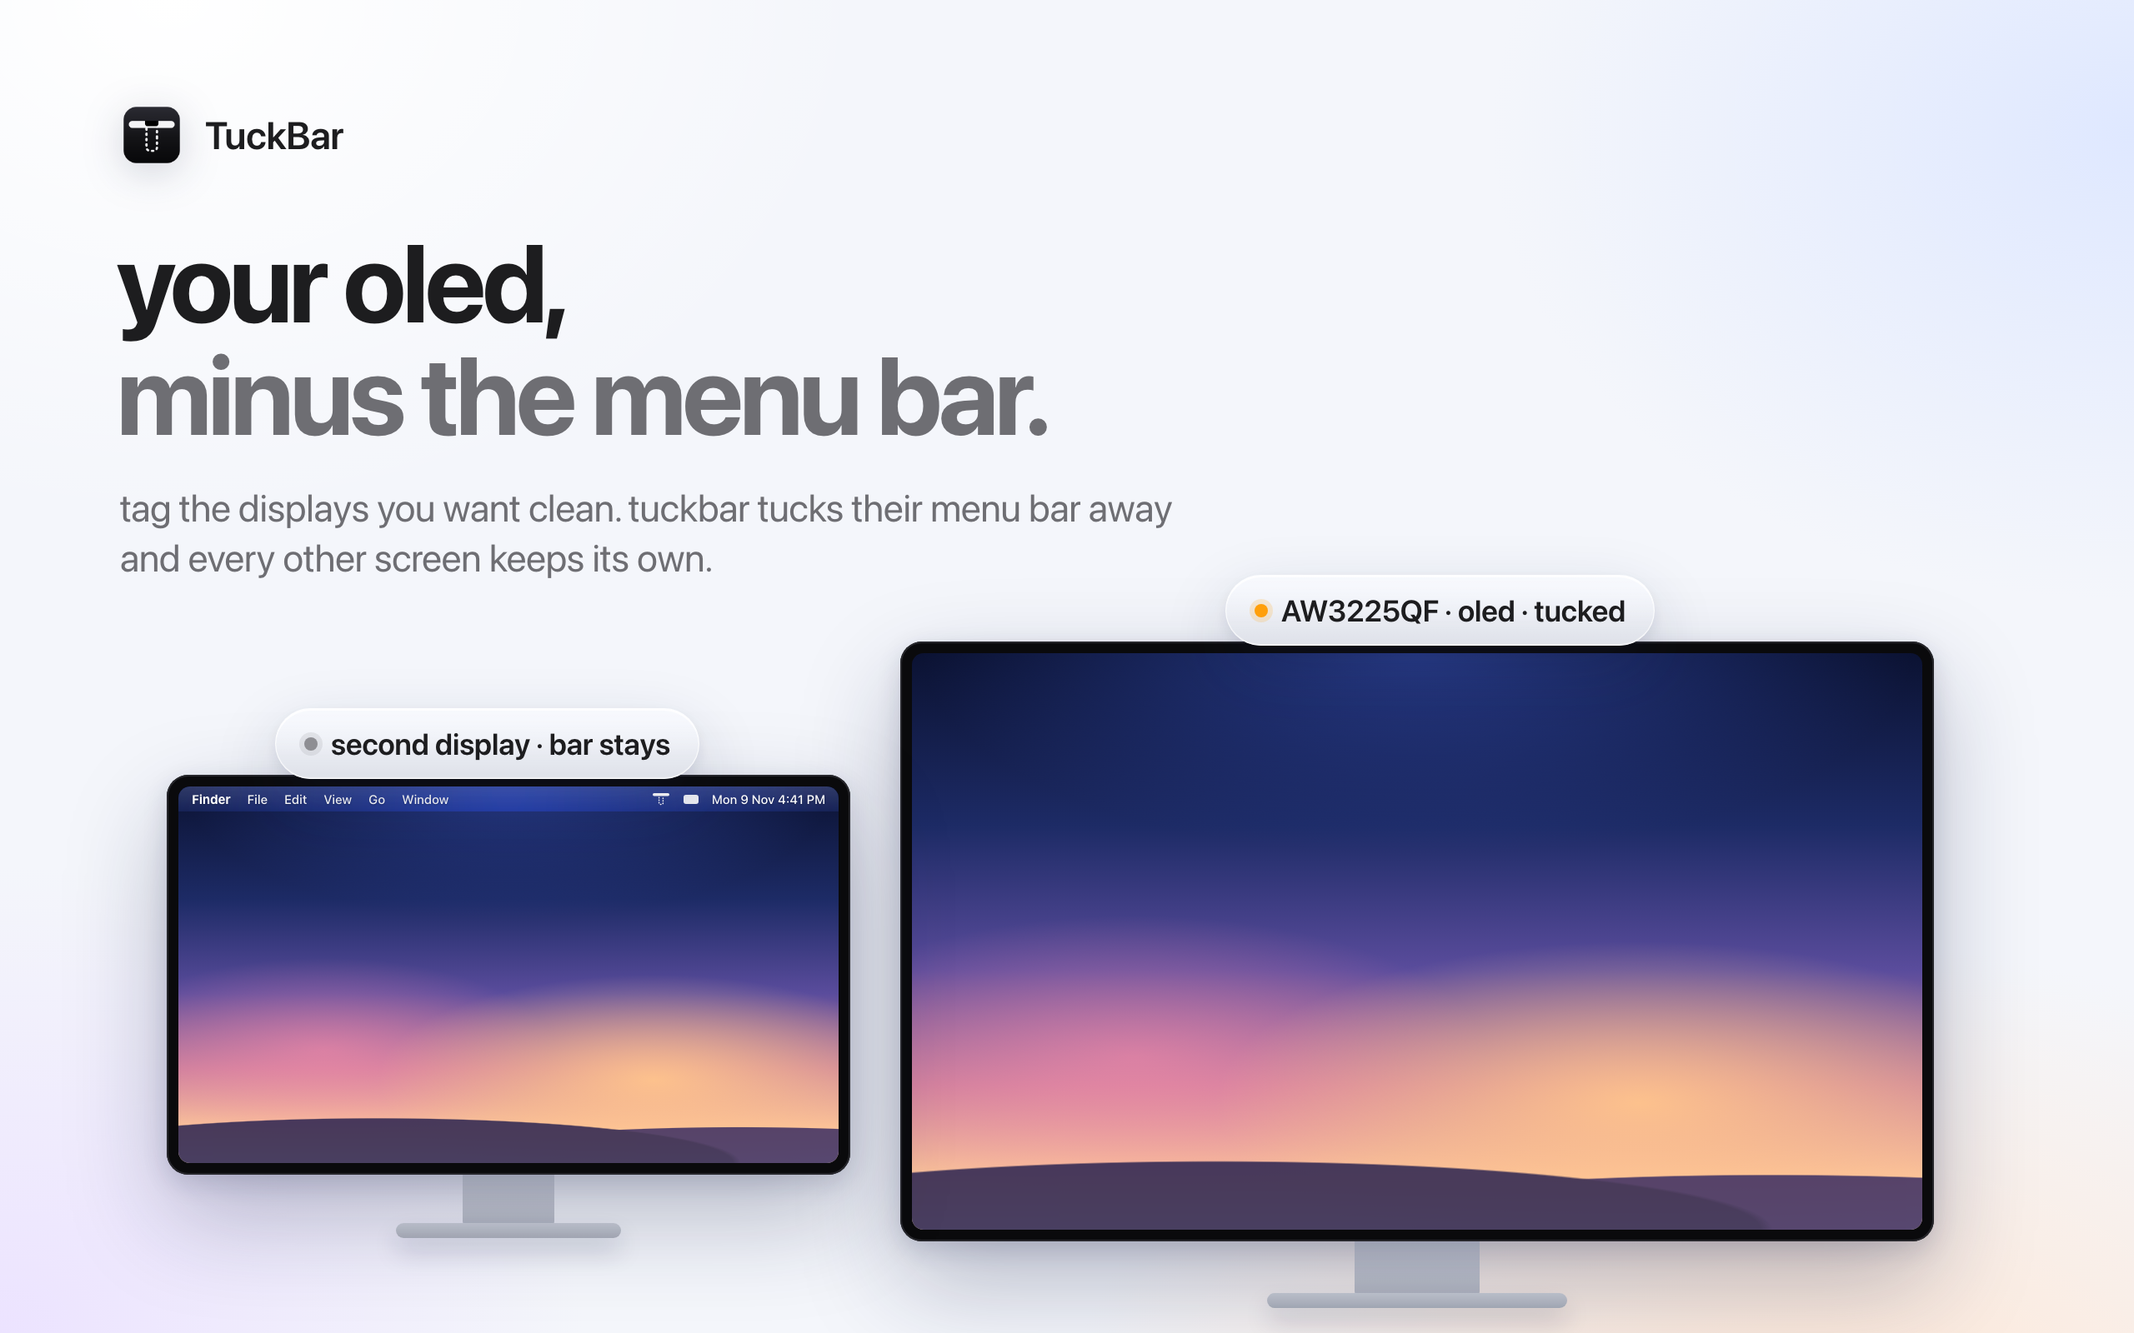
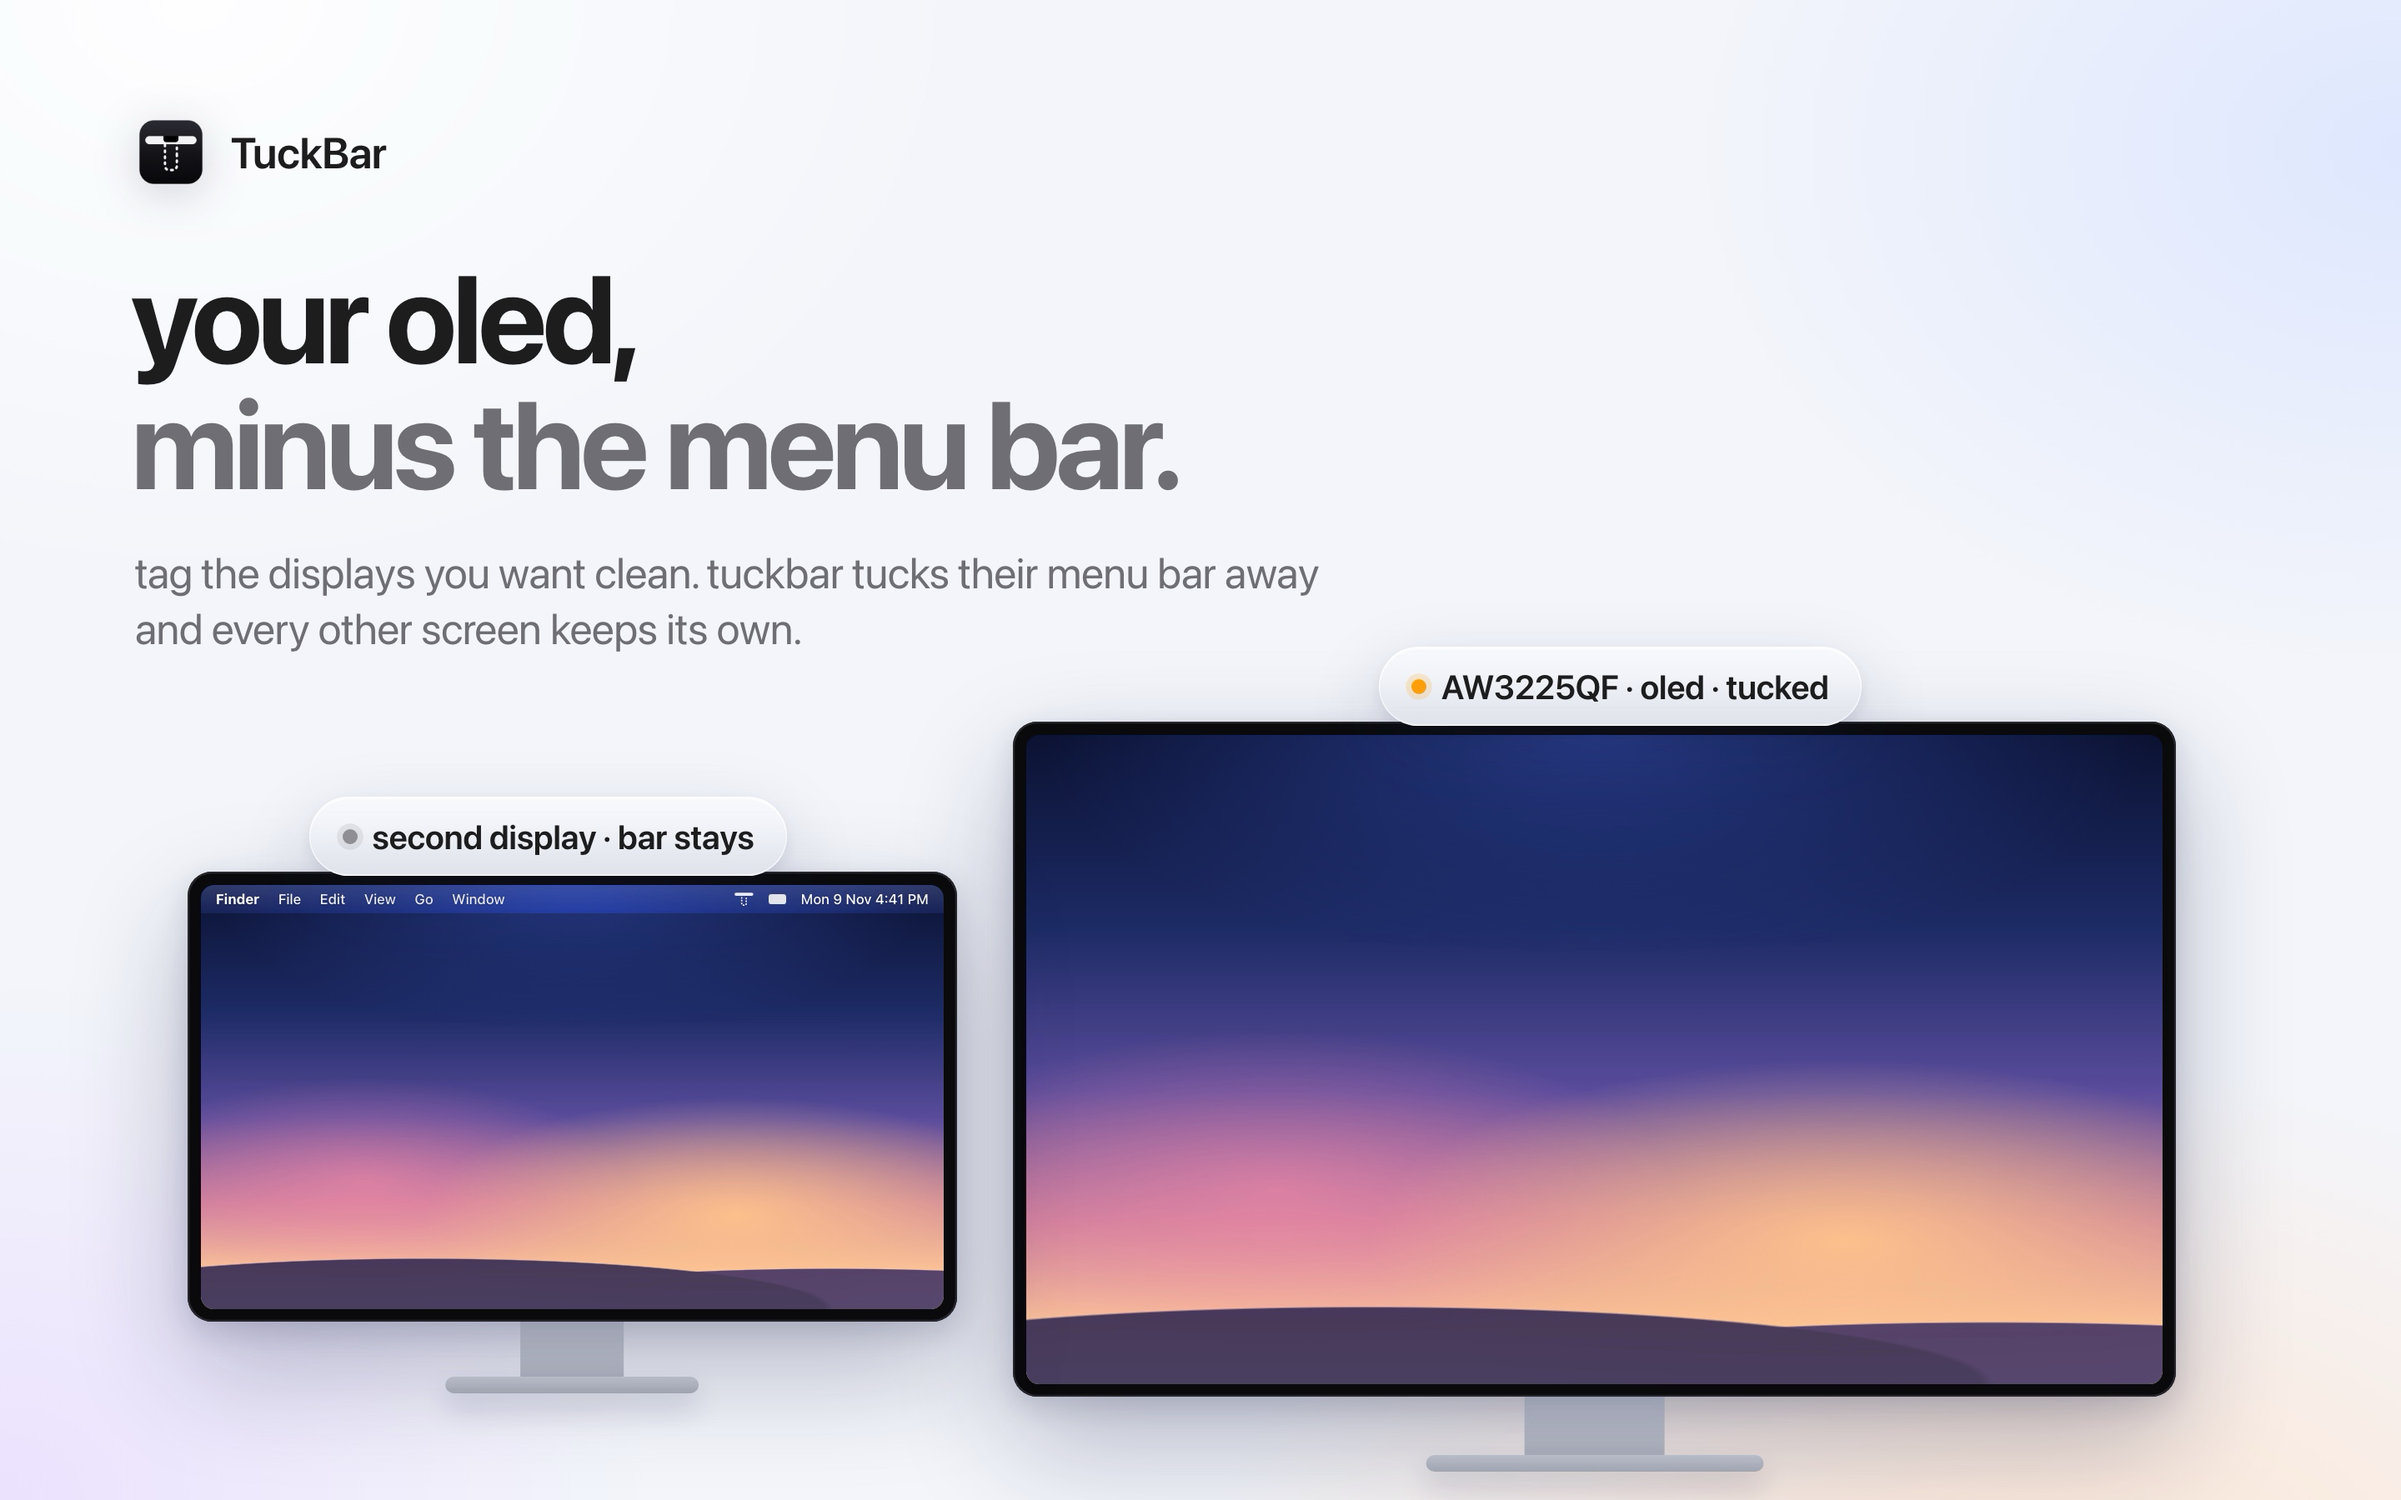
Render App Store screenshots at 2880x1800, flattened and tagged sRGB
Leland reported the screenshot dimensions were not accepted; 2880x1800 is Apple's largest Mac size, and the files must carry no alpha channel.

diff --git a/store/ASSETS.md b/store/ASSETS.md
@@ -7,7 +7,7 @@ notarization) is kept as the fallback for direct distribution.
 
 ## Screenshots
 
-`screenshots/` holds the current set: five 2560 × 1600 PNGs (16:10), the "dawn" look of the
+`screenshots/` holds the current set: five 2880 × 1800 PNGs (16:10, no alpha, sRGB), the "dawn" look of the
 light liquid-glass design. The App Store accepts 1280 × 800, 1440 × 900, 2560 × 1600 or
 2880 × 1800, PNG or JPEG, 1 to 10 per localization.
 
@@ -15,7 +15,7 @@ The source is one HTML file, `design/appstore-v2/screens.html`, rendered with he
 so the glass can use a real backdrop blur:
 
 ```bash
-bash scripts/render-store-screens.sh store/screenshots dawn   # or: daylight | oled
+bash scripts/render-store-screens.sh store/screenshots dawn 1.125   # 2880x1800; theme: dawn | daylight | oled
 ```
 
 Open the HTML file in a browser with no hash to see all five frames; `#3` shows one frame,
